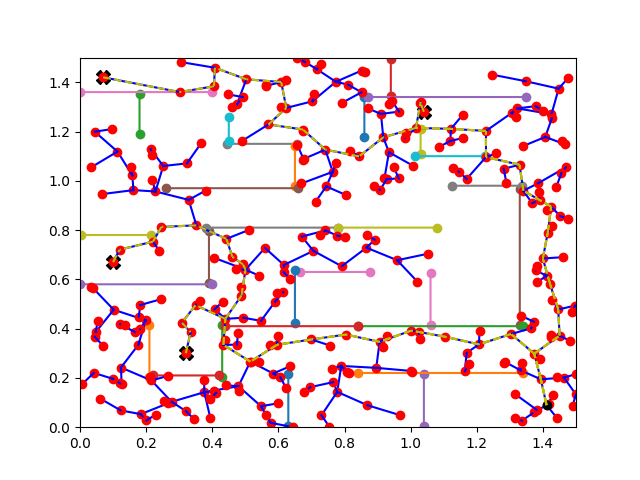
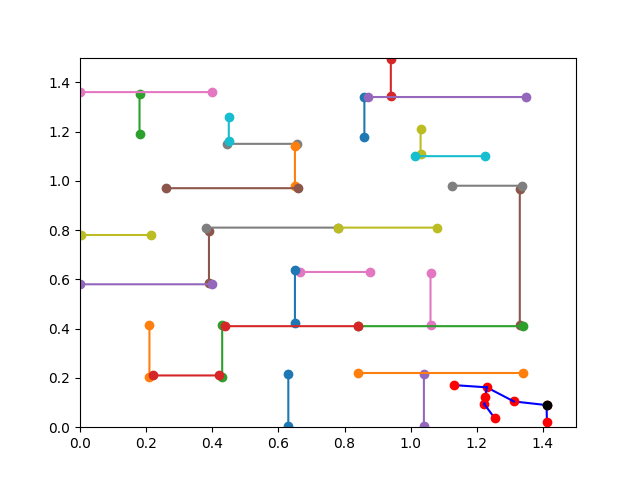
going out/in states, reach goal condition, needs more debugging/testing

diff --git a/controllers/controller_base/controller_base.py b/controllers/controller_base/controller_base.py
@@ -122,16 +122,19 @@ def get_wheel_speeds(target_pose):
     return phi_l_pct, phi_r_pct
     
 
-def visualize_2D_graph(state_bounds, line_segments, nodes, goals, paths, filename=None):
+def visualize_2D_graph(state_bounds, line_segments, nodes, paths, filename=None):
     global TARGETS
+    
+    goals = [[t.point[0],t.point[1]] for t in TARGETS]
+    
     fig = plt.figure()
     plt.xlim(state_bounds[0,0], state_bounds[0,1])
     plt.ylim(state_bounds[1,0], state_bounds[1,1])
     t = 1.5
     goal_point=None
-    pathsss = {}
+    path_set = {}
     
-    for targ in TARGETS:
+    for targ in goals:
         x,y = targ[0],targ[1]
         plt.plot(x, t-y, 'kX', markersize=10)
         
@@ -151,19 +154,22 @@ def visualize_2D_graph(state_bounds, line_segments, nodes, goals, paths, filenam
 
     plt.plot(nodes[0].point[0], t - nodes[0].point[1], 'ko')
     
-    if goals is not None:
-        for goal_node in goals:
-            cur_node = goal_node
-            while cur_node is not None:
-                if cur_node.parent is not None:
-                    node_path = np.array(cur_node.path_from_parent)
-                    plt.plot(node_path[:,0], t - node_path[:,1], '--y')
-                    pathsss[cur_node.parent] = cur_node
-                
-                if cur_node in paths:
-                    cur_node = paths[cur_node]
+    for goal_node in TARGETS:
+        cur_node = goal_node
+        while cur_node is not None:
+            if cur_node.parent is not None:
+                node_path = np.array(cur_node.path_from_parent)
+                plt.plot(node_path[:,0], t - node_path[:,1], '--y')
+                if cur_node.parent in path_set:
+                    path_set[cur_node.parent].append(cur_node)
+                    break
                 else:
-                    cur_node = None
+                    path_set[cur_node.parent] = [cur_node]
+            
+            if cur_node in paths:
+                cur_node = paths[cur_node]
+            else:
+                cur_node = None
 
     if goal_point is not None:
         plt.plot(goal_point[0], goal_point[1], 'gx')
@@ -174,7 +180,7 @@ def visualize_2D_graph(state_bounds, line_segments, nodes, goals, paths, filenam
     else:
         plt.show()    
     
-    return pathsss
+    return path_set
     
 def obsTransform(obstacles):
     global LINE_SEGMENTS
@@ -219,11 +225,17 @@ def state_is_valid(from_point, to_point):
         lx1, lx2, ly1, ly2 = min(lines[0][0], lines[1][0]), max(lines[0][0], lines[1][0]), \
                              min(lines[0][1], lines[1][1]), max(lines[0][1], lines[1][1])
         
-        # look for intersection on both line segments
+        np.sort(lines)
+        dist = np.min(np.linalg.norm(np.array(lines)-np.array([[x1,y1],[x2,y2]]), axis=1))
+        
+        # look for intersection on both line segments, (x,y) is intersection
         if x >= x1 and x <= x2 and y >= y1 and y <= y2 and \
            x >= lx1 and x <= lx2 and y >= ly1 and y <= ly2:
             return False
-    return True
+        elif dist < .1:
+            return False
+
+    return True 
     
     
 def get_random_vertex(bounds, obstacles):
@@ -257,21 +269,24 @@ def build_rrt(state_bounds, obstacles, state_is_valid, starting_point, goal_poin
 
 def get_path(node_list, start_node):
     global TARGETS
-    goals = TARGETS[:]
+
     visited = {start_node:None}
 
-    for ix,goal in enumerate(goals):
+    # add goals to node list and valid connection from RRT
+    for ix,goal in enumerate(TARGETS):
         goal_parent = get_valid_connect(node_list, goal)
         
         if goal_parent != -1:
             goal_node = Node(goal, parent=goal_parent, path_from_parent=[goal, goal_parent.point])
             node_list.append(goal_node)
-            goals[ix] = goal_node
+            TARGETS[ix] = goal_node
         else:
-            goals[ix] = None
+            TARGETS[ix] = None
 
-    goals = [g for g in goals if g] # remove None
-    for goal in goals:
+    TARGETS = [g for g in TARGETS if g] # remove None
+    
+    # trace back path from goal
+    for goal in TARGETS:
         cur_node = goal
         
         while cur_node:
@@ -279,7 +294,7 @@ def get_path(node_list, start_node):
             visited[cur_node] = cur_node.parent
             cur_node = cur_node.parent
             
-    return visited, goals
+    return visited
             
         
 def get_valid_connect(node_list, q_point):
@@ -320,112 +335,99 @@ def detect_obstacle(psValues):
         elif right_obstacle:
             state="right_obstacle" 
     return
+    
+    
 def main():
-    global OBSTACLES, LINE_SEGMENTS, state
-    l_mult, r_mult = None, None
-    # You should insert a getDevice-like function in order to get the
-    # instance of a device of the robot. Something like:
-    #  motor = robot.getMotor('motorname')
-    #  ds = robot.getDistanceSensor('dsname')
-    #  ds.enable(timestep)2
-    K = 500 # adjustable
+    global OBSTACLES, LINE_SEGMENTS, TARGETS, state
+    l_mult, r_mult, sub_state = None, None, "go_out"
+    K = 100 # adjustable k-val for number of random points
     start_pose = supervisor.supervisor_get_robot_pose()[:2]
     start_pose+=.25
     starting_point = Node(start_pose[:2], parent=None)
+    fork_node, dist = [], None
+    
     obsTransform(OBSTACLES)
-    node_list = build_rrt(MAP_BOUNDS, OBSTACLES, state_is_valid, starting_point, None, K, np.linalg.norm(MAP_BOUNDS/20.))
-    print(starting_point, "HERE IS STARTING POINT")
+    
+    # can change delta q (last param) to make lines longer/shorter
+    node_list = build_rrt(MAP_BOUNDS, OBSTACLES, state_is_valid, starting_point, None, K, .1)
     current_node = starting_point
-    # pose_x, pose_y, pose_theta = start_pose
-    # paths, goals = get_path(node_list, starting_point)
-    
-    # visualize_2D_graph(MAP_BOUNDS, LINE_SEGMENTS, node_list, goals, paths, 'rrt_maze_run.png')
-    # print(goals[-1].point)
-    # g = goals[-1]
-    # while paths[g] != None:
-        # print(paths[g].point)
-        # g = paths[g]
-        
-    # Main loop:
-    # - perform simulation steps until Webots is stopping the controller
-    
-    for t in TARGETS:
-        x,y = t[0], t[1]
-        #pcalculating theta for each goal so we can use get_wheels_speeds
-        thetaa = math.atan(x/y) # maybe change 
-        # print(thetaa, "----")
-        print(math.atan(1.12/0.92))
+
+    # plan path and set initial state
+    paths_from = get_path(node_list, starting_point)
+    paths_to = visualize_2D_graph(MAP_BOUNDS, LINE_SEGMENTS, node_list, paths_from, 'rrt_maze_run.png')
+    state = 'get_waypoint' 
+       
     # Main loop:
     # - perform simulation steps until Webots is stopping the controller
     while robot.step(timestep) != -1:
-        # Read the sensors:
-        # Enter here functions to read sensor data, like:
-        #  val = ds.getValue()
-        # Process sensor data here.
-        if state == 'get_path':
-            paths, goals = get_path(node_list, starting_point)
-            path = visualize_2D_graph(MAP_BOUNDS, LINE_SEGMENTS, node_list, goals, paths, 'rrt_maze_run.png')
-            state = 'get_waypoint'
             
-        elif state == 'get_waypoint':
-            my_target = path[current_node]
-            current_node = my_target
-            x,y = np.array(my_target.point) - .25
+        if state == 'get_waypoint':
+            ## get next node to go to
+            if len(paths_to) == 0: 
+                break # no goals were reached in RRT process (try to increase k-val)
+                
+            elif current_node in TARGETS and \
+                 current_node not in paths_to:
+                 ## current node is at goal
+                print("-------------- GOAL REACHED -------------\n back point: ", fork_node)
+                if fork_node:
+                    ## if fork node exists then go back to it
+                    next_node = paths_from[current_node]
+                    sub_state = "go_in"
+                
+            elif sub_state == "go_in":
+                ## go down the tree
+                
+                if current_node == fork_node and \
+                   len(paths_to[current_node])>1:                
+                    paths_to[current_node].pop(0)
+                    if len(paths_to[current_node])==0: fork_node = None
+                    sub_state = "go_out"    
+                
+                next_node = paths_from[current_node]  
+                
+            elif sub_state == "go_out":
+                ## go up the tree
+                
+                target_list = paths_to[current_node]
+    
+                if len(target_list) > 1:
+                    fork_node.append(current_node)
+                    
+                next_node = target_list[0]
+            
+            x,y = np.array(next_node.point) - .25
             theta = np.arctan(y/x)
             state = 'move'
             
         elif state == 'move':
+            ## move to waypoint
+            
             lspeed, rspeed = get_wheel_speeds([x,1.5-y,theta]) 
             leftMotor.setVelocity(lspeed)
             rightMotor.setVelocity(rspeed) 
             
+            # get differences between current node and next node/goal nodes
             cur_pos = np.array(supervisor.supervisor_get_robot_pose()[:2])
-            dist = np.linalg.norm(np.array(cur_pos[0:2:1]) - np.array([x,y]))
-            if dist < 0.035:
+            goal_pos = np.array([g.point for g in TARGETS])
+            prev_dist = dist
+            dist = np.linalg.norm(np.array(cur_pos) - np.array([x,y]))
+            dist_diff = np.abs(prev_dist - dist) if prev_dist else 0.1
+            goal_dist = np.linalg.norm(np.array(cur_pos) - goal_pos, axis=1)
+            min_goal_indx = np.argmin(goal_dist)
+            
+            # or dist_diff < 1.5e-07: # makes it spin sometimes
+            if dist < 0.045:
+                ## distance threshold reached for node or stuck trying to reach one too close to wall
+                current_node = next_node
                 state = 'get_waypoint'
-            # use supervisor to get curr position 
-            # w = npling(np.array(currposition) - np.array([x,y])
-            # dist =  w 
-            # if w < 0.5 then change state to get waypoit
-    
-        # Enter here functions to send actuator commands, like:
-        #  motor.setPosition(10.0)
+            elif np.any(goal_dist) < 0.35:
+                ## close enough to goal, prevents weird double backs
+                current_node = TARGETS[min_goal_indx]
+                state = "get_waypoint"
+                
         
-        
-        # if state[-8:] == "obstacle":
-            # reduce, increase = 0.95, 1.05
-            
-            # if state == "left_obstacle":
-            
-                # if not l_mult and not r_mult:
-                    # l_mult, r_mult = 1., 0.1
-                
-                # l_mult, r_mult = l_mult*reduce, r_mult*increase
-                # l_mult, r_mult = 1 if l_mult>1 else l_mult, \
-                                 # 1 if r_mult>1 else r_mult
-                
-            
-            # elif state == "right_obstacle":
-            
-                # if not l_mult and not r_mult:
-                    # l_mult, r_mult = 0.1, 1.
-            
-                # l_mult, r_mult = l_mult*increase, r_mult*reduce
-                # l_mult, r_mult = 1 if l_mult>1 else l_mult, \
-                                     # 1 if r_mult>1 else r_mult
-                                     
-            # robo_pose = supervisor.supervisor_get_robot_pose()[:2]
-            # slope = (dest[1]-source[1]) / (dest[0]-source[0])
-            
-            # if slope * robo_pose[0] == robo_pose[1]: 
-                ##robot has returned to path, reset
-                # l_mult, r_mult = None, None
-                # return 1,1
-                
-            # leftMotor.setVelocity(leftMotor.getMaxVelocity() * l_mult)
-            # rightMotor.setVelocity(rightMotor.getMaxVelocity() * r_mult)
-        #break
-    # Enter here exit cleanup code.  
+    # Exiting program
     print("BYE")  
     
 
